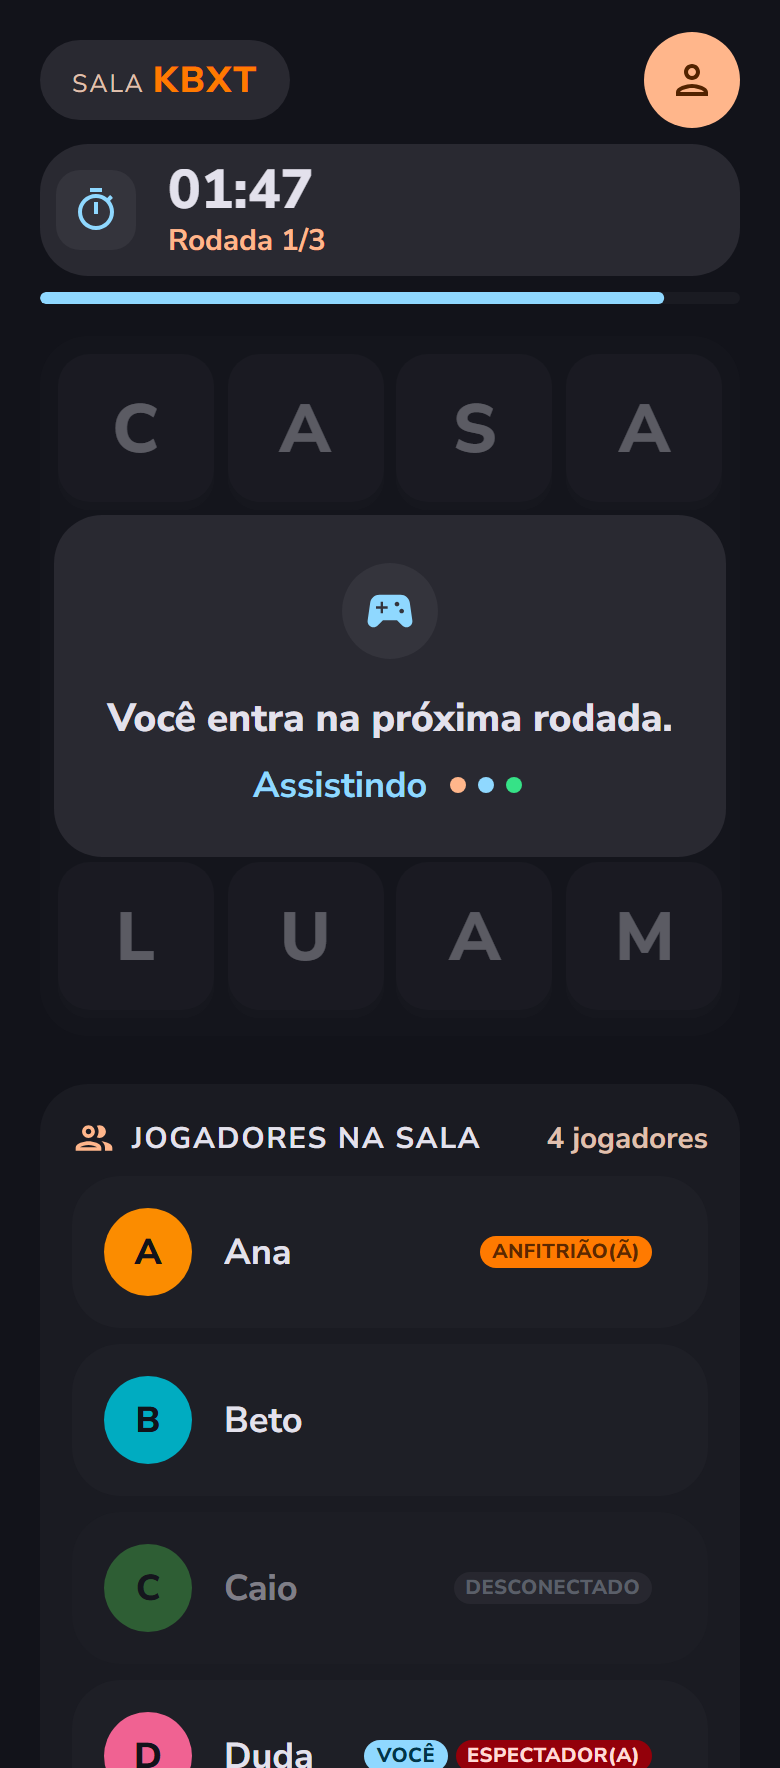
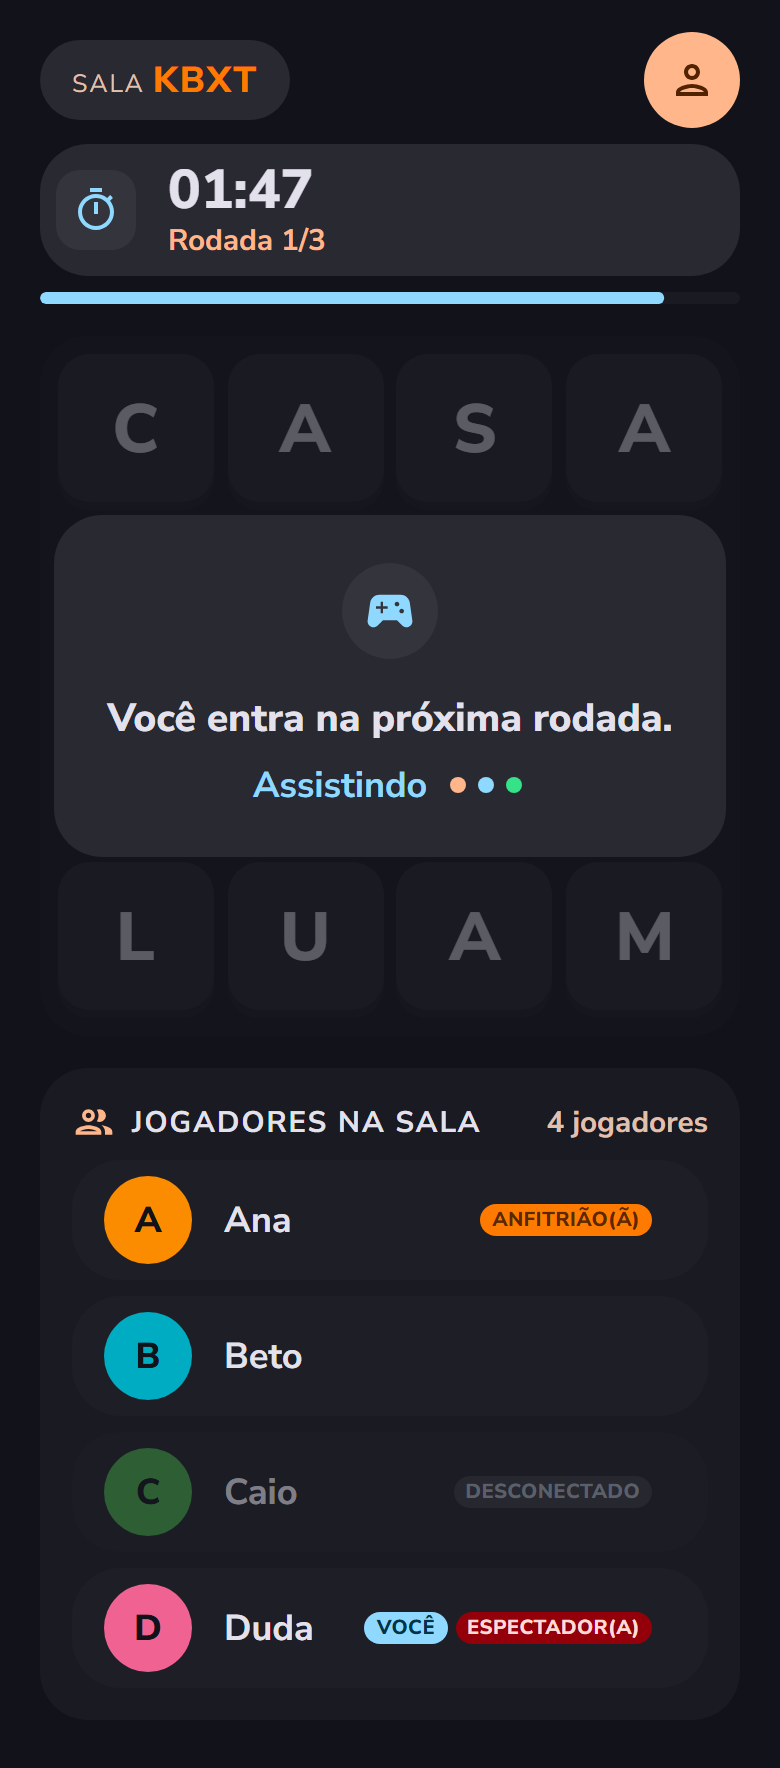
fix(phone): fit the spectator list in the capture window

diff --git a/packages/phone/e2e/spectator.spec.ts b/packages/phone/e2e/spectator.spec.ts
@@ -2,9 +2,30 @@ import { PALETTE } from '@bwords/core';
 import { expect, test } from '@playwright/test';
 import { STRINGS } from '../src/strings/pt-BR.ts';
 import { joinOnPhone } from './phones.ts';
+import { openRound } from './round-room.ts';
+import { DUDA } from './samples.ts';
 import { createRoom, isType, joinPlayer } from './tv.ts';
 
 const ORANGE = PALETTE[1]!;
+
+/** The window of `phone-spectator.png` (SPEC-01 AC 4). */
+const CAPTURE_VIEWPORT = { width: 390, height: 884 };
+const CAPTURE_ROOM_PLAYERS = 4;
+
+test('fits the four players of the capture without vertical scroll', async ({ page }) => {
+  // SPEC-01 AC 4: at the capture's size Duda sees the whole list down to Duda's own row, and the page does not scroll.
+  await page.setViewportSize(CAPTURE_VIEWPORT);
+  const now = Date.now();
+  await openRound(page, { me: DUDA, startsAt: now - 13_000, endsAt: now + 107_000 });
+  const rows = page.getByRole('region', { name: STRINGS.playersInRoomTitle }).getByRole('listitem');
+  await expect(rows).toHaveCount(CAPTURE_ROOM_PLAYERS);
+
+  const lastRow = (await rows.last().boundingBox())!;
+  const pageHeight = await page.evaluate(() => document.documentElement.scrollHeight);
+
+  expect(lastRow.y + lastRow.height).toBeLessThanOrEqual(CAPTURE_VIEWPORT.height);
+  expect(pageHeight).toBeLessThanOrEqual(CAPTURE_VIEWPORT.height);
+});
 
 test('shows the timer and the players without word counts', async ({ page }) => {
   // SPEC-01 AC 1-2: Duda joins while Ana's round runs, so Duda watches: the timer with its bar, the faded board

diff --git a/packages/phone/src/styles/spectator.css b/packages/phone/src/styles/spectator.css
@@ -1,4 +1,8 @@
 /* The round as a spectator sees it (SPEC-01, phone-spectator.png). */
+.spectator {
+  padding-bottom: var(--space-md);
+}
+
 .spectator__board {
   position: relative;
   display: flex;
@@ -57,7 +61,7 @@
 }
 
 .spectator__players {
-  margin-top: var(--space-lg);
+  margin-top: var(--space-md);
   padding: var(--space-md);
   border-radius: var(--radius-xl);
   background: var(--color-surface-container-low);
@@ -96,6 +100,11 @@
   margin: var(--space-xs) 0 0;
   padding: 0;
   list-style: none;
+}
+
+/* Shorter rows than the lobby's, so the capture's four players fit under the board (SPEC-01 AC 4). */
+.spectator__players .player-row {
+  padding: var(--space-sm) var(--space-md);
 }
 
 /* The spectator's list has no wins, so the tags go to the right end of the row (phone-spectator.png). */

diff --git a/.specs/features/m3-phone/tasks.md b/.specs/features/m3-phone/tasks.md
@@ -12,6 +12,7 @@ Implement these tasks with the `tlc-spec-driven` skill: **activate it by name an
 **Status**: Approved
 **Approved**: 2026-10-29 - user: "Aprovo as tasks"
 **Amended**: 2026-10-29 - T43-T44 entram no começo da Phase 3 para corrigir os achados da fase 2; user: "Aceito, seguir"
+**Amended**: 2026-10-30 - T47-T48 e C135-C136, das dúvidas visuais das fotos no tamanho da capture; user: "Sim, aplicar"
 **Mutations**: 3
 **Build**: `npx tsc -b; npm run lint -w @bwords/phone; npx vitest run; npx playwright test; npx playwright test -c packages/phone/playwright.config.ts`
 
@@ -1068,6 +1069,46 @@ T36 → T37 → T38 → T39 → T40 → T41 → T42
 
 ---
 
+### T47: Spectator list fits the capture's window
+
+**What**: Linhas mais baixas e margens menores na tela do espectador, para os 4 jogadores da capture caberem em 390x884 sem rolagem.
+**Where**: `packages/phone/src/styles/spectator.css` (modify)
+**Depends on**: T46
+**Reuses**: `PlayerRow`
+**Requirement**: SPEC-01
+
+**Done when**:
+
+- [x] C135 passa
+- [x] Gate check passes: `npx playwright test -c packages/phone/playwright.config.ts packages/phone/e2e/spectator.spec.ts packages/phone/e2e/layout.spec.ts`
+- [x] Test count: anterior + novos, nenhum removido
+
+**Tests**: e2e
+**Gate**: quick
+**Commit**: `fix(phone): fit the spectator list in the capture window`
+
+---
+
+### T48: Whole spelling on a narrow screen
+
+**What**: A 320 px a grafia real da palavra desce inteira para a linha de baixo, em vez de quebrar no meio.
+**Where**: `packages/phone/src/components/ResultWordList.tsx`, `packages/phone/src/styles/result-word-list.css` (modify)
+**Depends on**: T47
+**Reuses**: -
+**Requirement**: UI-01
+
+**Done when**:
+
+- [ ] C136 passa
+- [ ] Gate check passes: `npx playwright test -c packages/phone/playwright.config.ts packages/phone/e2e/results.spec.ts packages/phone/e2e/layout.spec.ts`
+- [ ] Test count: anterior + novos, nenhum removido
+
+**Tests**: e2e
+**Gate**: quick
+**Commit**: `fix(phone): keep a word's spelling whole at 320 px`
+
+---
+
 ## Checks
 
 Os testes Vitest ficam em `packages/phone/src/**`; os E2E em `packages/phone/e2e/*.spec.ts`, rodados com `npx playwright test -c packages/phone/playwright.config.ts`.
@@ -1477,6 +1518,12 @@ Proof: `npx playwright test -c packages/phone/playwright.config.ts packages/phon
 **C134** - Na classificação do pódio, um jogador desconectado traz "(desconectado)" ao lado do apelido, sem a etiqueta, como em `phone-podium.jpg` (POD-01, AC 7)
 Proof: `npx vitest run packages/phone/src/model/players.test.ts -t "marks a disconnected player beside the name instead of a pill"`
 
+**C135** - Numa janela de 390x884 px, o espectador vê os 4 jogadores de `phone-spectator.png` inteiros, sem rolagem vertical (SPEC-01, AC 4)
+Proof: `npx playwright test -c packages/phone/playwright.config.ts packages/phone/e2e/spectator.spec.ts -g "fits the four players of the capture without vertical scroll"`
+
+**C136** - A 320 px o resultado da rodada mostra a grafia real de uma palavra inteira, numa linha só (UI-01, AC 12)
+Proof: `npx playwright test -c packages/phone/playwright.config.ts packages/phone/e2e/results.spec.ts -g "keeps the real spelling of a word whole at 320 px"`
+
 ---
 
 ## Handoff
@@ -1500,7 +1547,7 @@ Phase 3:  T43 --→ T44 --→ T15 --→ T16 --→ T17 --→ T18 --→ T19
 Phase 4:  T20 --→ T21 --→ T22 --→ T23 --→ T24 --→ T25 --→ T26
 Phase 5:  T27 --→ T28 --→ T29 --→ T30
 Phase 6:  T31 --→ T32 --→ T33 --→ T34 --→ T35
-Phase 7:  T36 --→ T37 --→ T38 --→ T39 --→ T40 --→ T41 --→ T42 --→ T45 --→ T46
+Phase 7:  T36 --→ T37 --→ T38 --→ T39 --→ T40 --→ T41 --→ T42 --→ T45 --→ T46 --→ T47 --→ T48
 ```
 
 Execution is strictly sequential. Cada fase é um batch de subagente (Phase 1 tem 8 tarefas, o resto ≤ 7), e o orquestrador para entre as fases para mostrar o resultado e perguntar antes da próxima.

diff --git a/.specs/features/m3-phone/spec.md b/.specs/features/m3-phone/spec.md
@@ -8,6 +8,8 @@
 
 **Amended**: 2026-10-29 - Edge Cases: parar de reconectar depois de `room-not-found` (achado da fase 2); user: "Aceito, seguir" (resposta à pergunta "Aceita os defaults da fase 2 e sigo para a fase 3, já corrigindo os dois achados?")
 
+**Amended**: 2026-10-30 - SPEC-01 AC 4 e UI-01 AC 12 (dúvidas visuais das fotos no tamanho da capture); user: "Sim, aplicar" (resposta à pergunta "Aplico as recomendações para os três pontos visuais antes de fechar o M3?")
+
 ## Problem Statement
 
 O M2 deixou a sala pronta no servidor, mas só a página de debug fala com ela. O jogador ainda não tem como entrar numa sala, escolher apelido e cor, jogar deslizando o dedo pelas letras nem acompanhar o resultado no celular. O M3 constrói o controle do celular como cliente do protocolo do M2, seguindo as telas desenhadas no Stitch.
@@ -228,6 +230,7 @@ O M2 deixou a sala pronta no servidor, mas só a página de debug fala com ela. 
 1. WHILE o jogador é espectador e a rodada está aberta, the celular SHALL mostrar a tela em `.specs/features/m3-phone/captures/phone-spectator.png`: o tabuleiro esmaecido, sem reagir ao toque, com a faixa "Você entra na próxima rodada." e "Assistindo"
 2. WHILE o jogador é espectador e a rodada está aberta, the celular SHALL mostrar o timer com a barra de progresso e, no lugar das palavras encontradas, a lista "JOGADORES NA SALA" sem contagem de palavras (AD-011)
 3. WHEN a rodada seguinte começa, the servidor SHALL mandar a todos os aparelhos a lista de jogadores sem a marca de espectador antes do `round-start`, para o celular de quem era espectador abrir o tabuleiro (emenda de 2026-10-29: achado do walk)
+4. WHILE o jogador é espectador numa janela de 390x884 px, the celular SHALL mostrar a lista com os 4 jogadores de `phone-spectator.png` inteira, sem rolagem vertical (emenda de 2026-10-30)
 
 **Independent Test**: Entrar durante a rodada e conferir a tela travada; jogar na rodada seguinte.
 
@@ -353,6 +356,7 @@ O M2 deixou a sala pronta no servidor, mas só a página de debug fala com ela. 
 9. WHILE a rodada está aberta, the tabuleiro SHALL ocupar o maior quadrado que cabe na largura e na altura livres, sem rolagem, de 568 a 932 px de altura
 10. The captures SHALL ser conferidas a 390 px; nas outras larguras, a tela SHALL manter a composição e a ordem da capture, sem exigir os mesmos pixels
 11. The servidor de desenvolvimento do celular SHALL recusar os arquivos do dicionário (os pacotes `.dict.bin` e `languages/`), também pelo caminho `/@fs/`, porque o dicionário fica só no servidor (PROTO-01 AC 8) (emenda de 2026-10-29: achado do Verifier)
+12. WHEN a largura da tela é 320 px, the resultado da rodada SHALL mostrar a grafia real de uma palavra inteira, numa linha só, sem quebrá-la no meio (emenda de 2026-10-30)
 
 **Independent Test**: Abrir cada tela em 320, 390 e 480 px de largura e 568 e 932 px de altura e conferir que nada sai da tela e o tabuleiro cabe inteiro.
 
@@ -387,7 +391,7 @@ O M2 deixou a sala pronta no servidor, mas só a página de debug fala com ela. 
 | EXIT-01 | P1: Saída da sala (AC 1-5) | Design | Pending |
 | RECON-01 | P1: Reconexão (AC 1-4) | Design | Pending |
 | PREF-01 | P2: Preferências e tela acesa (AC 1-4) | Design | Pending |
-| UI-01 | P1: Visual e textos (AC 1-11) | Design | Pending |
+| UI-01 | P1: Visual e textos (AC 1-12) | Design | Pending |
 
 **Coverage:** 14 total, 0 mapped to tasks, 14 unmapped ⚠ (mapeados na fase Tasks)
 
